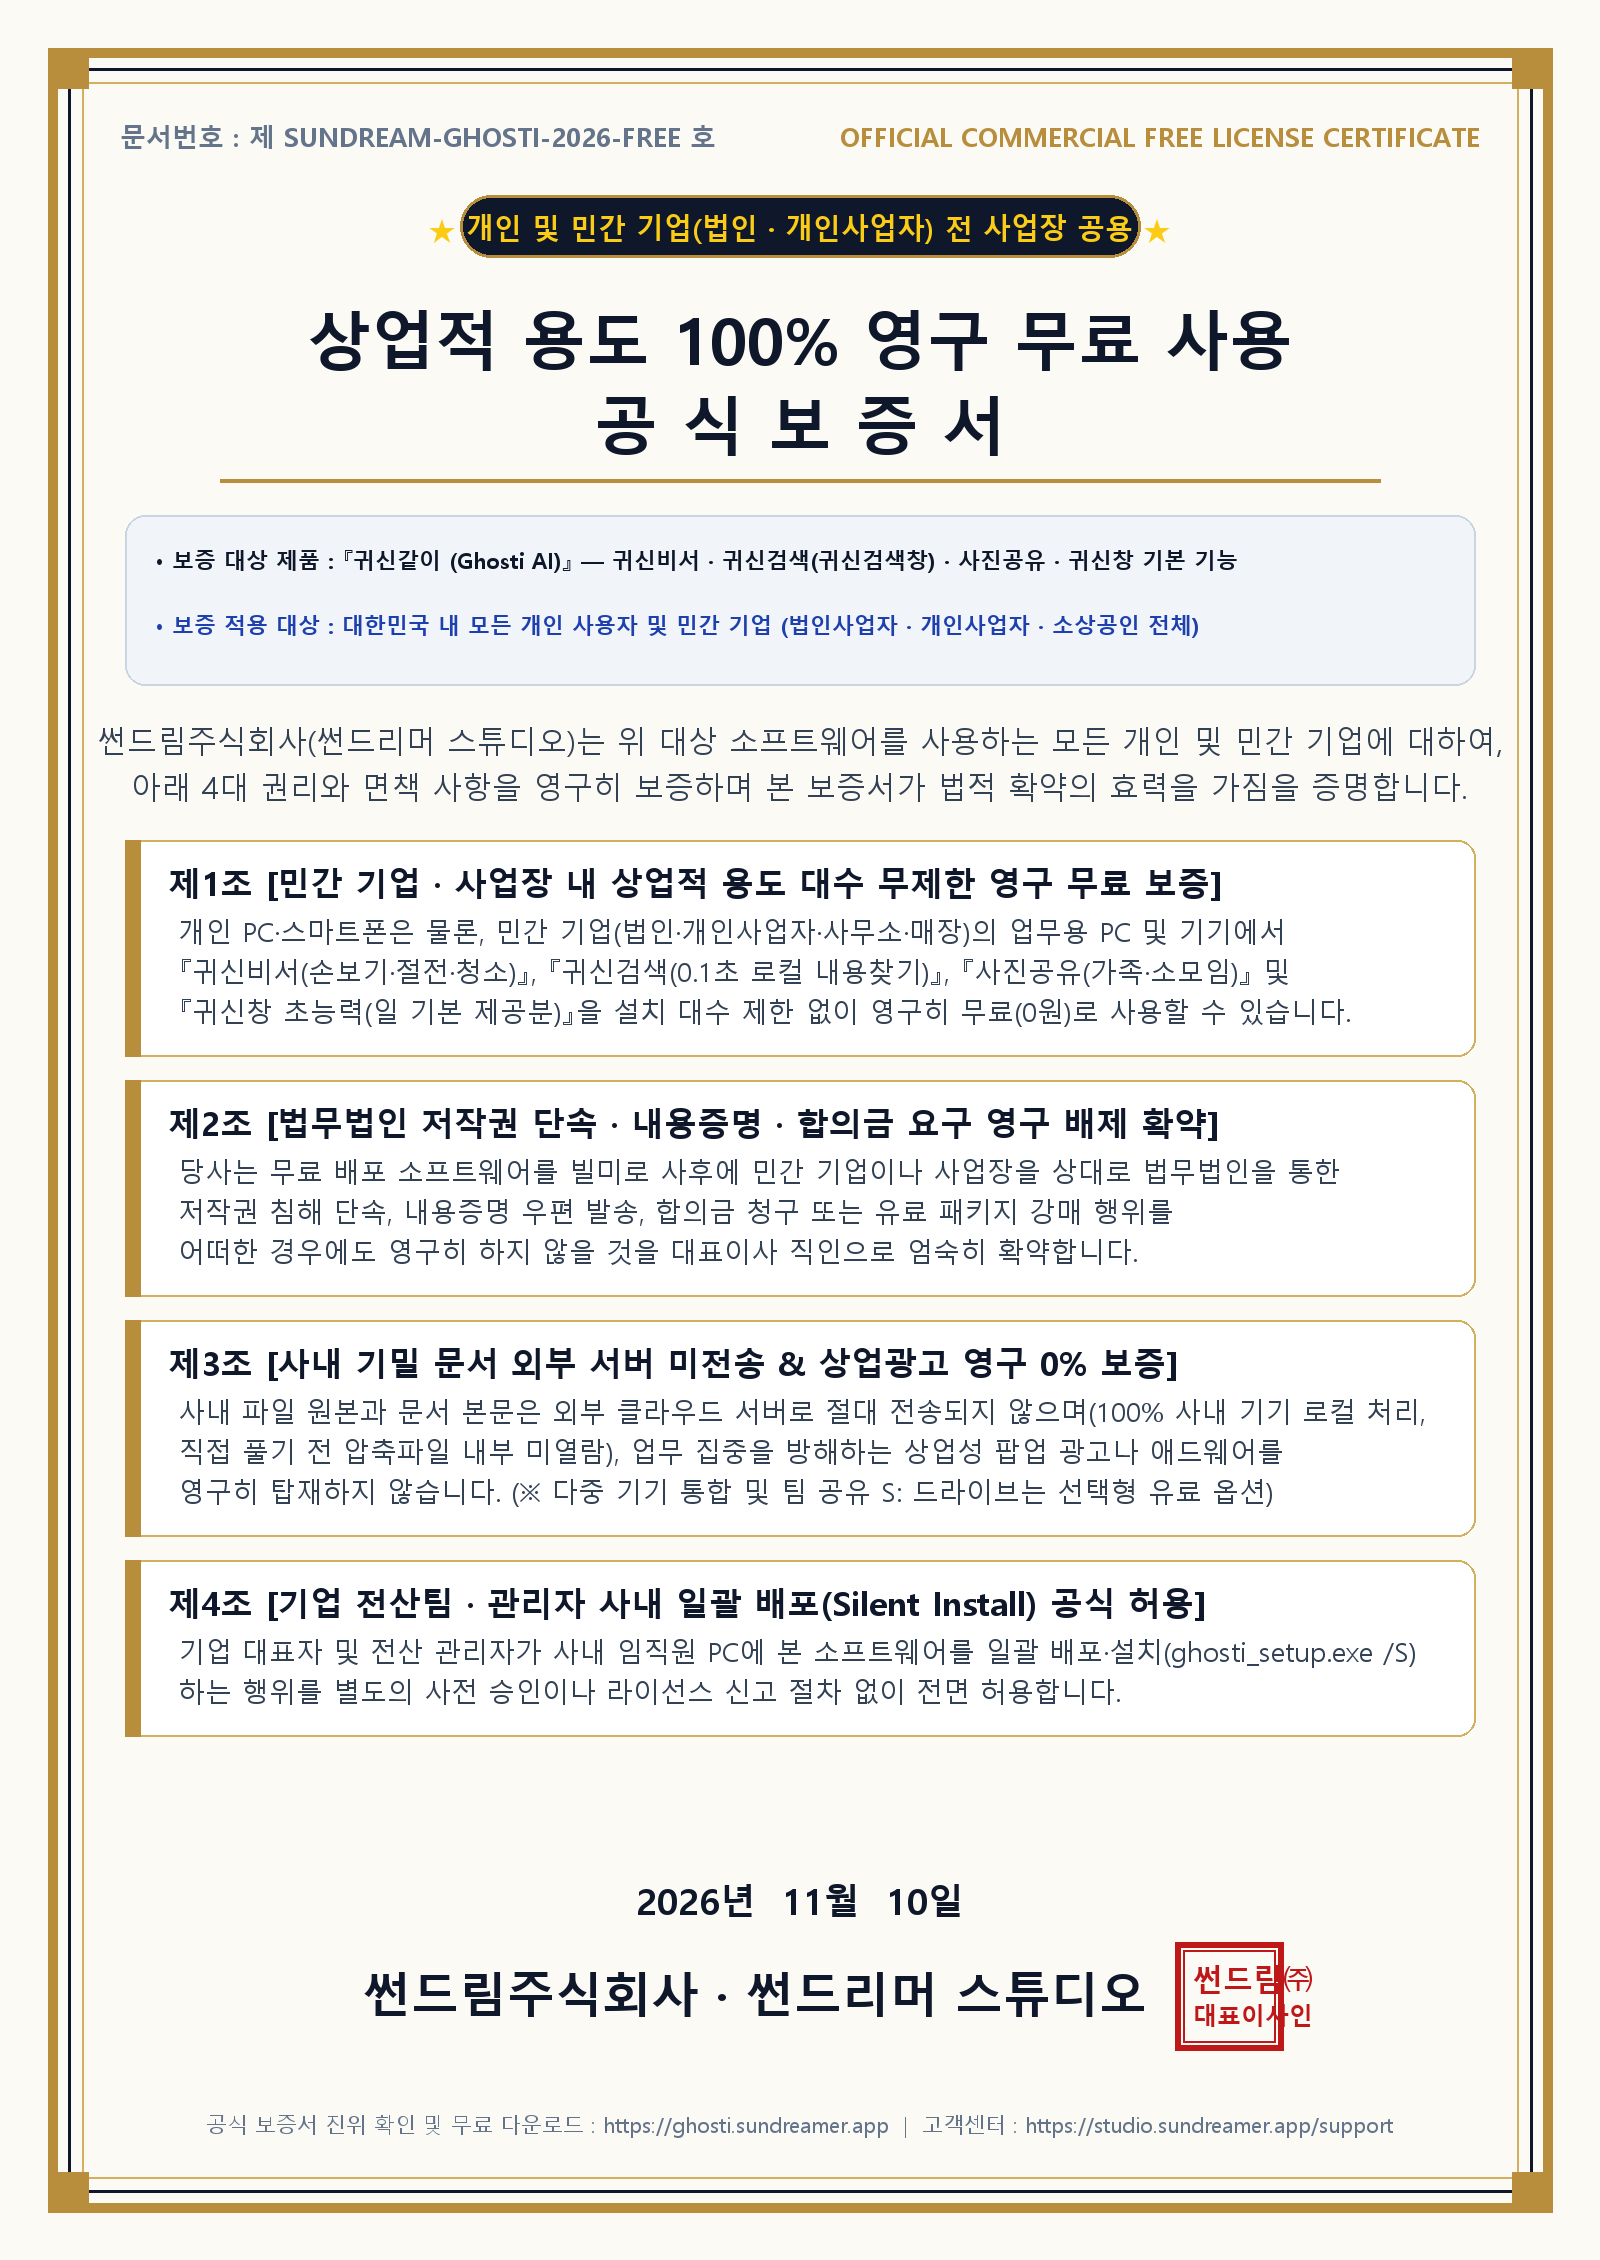
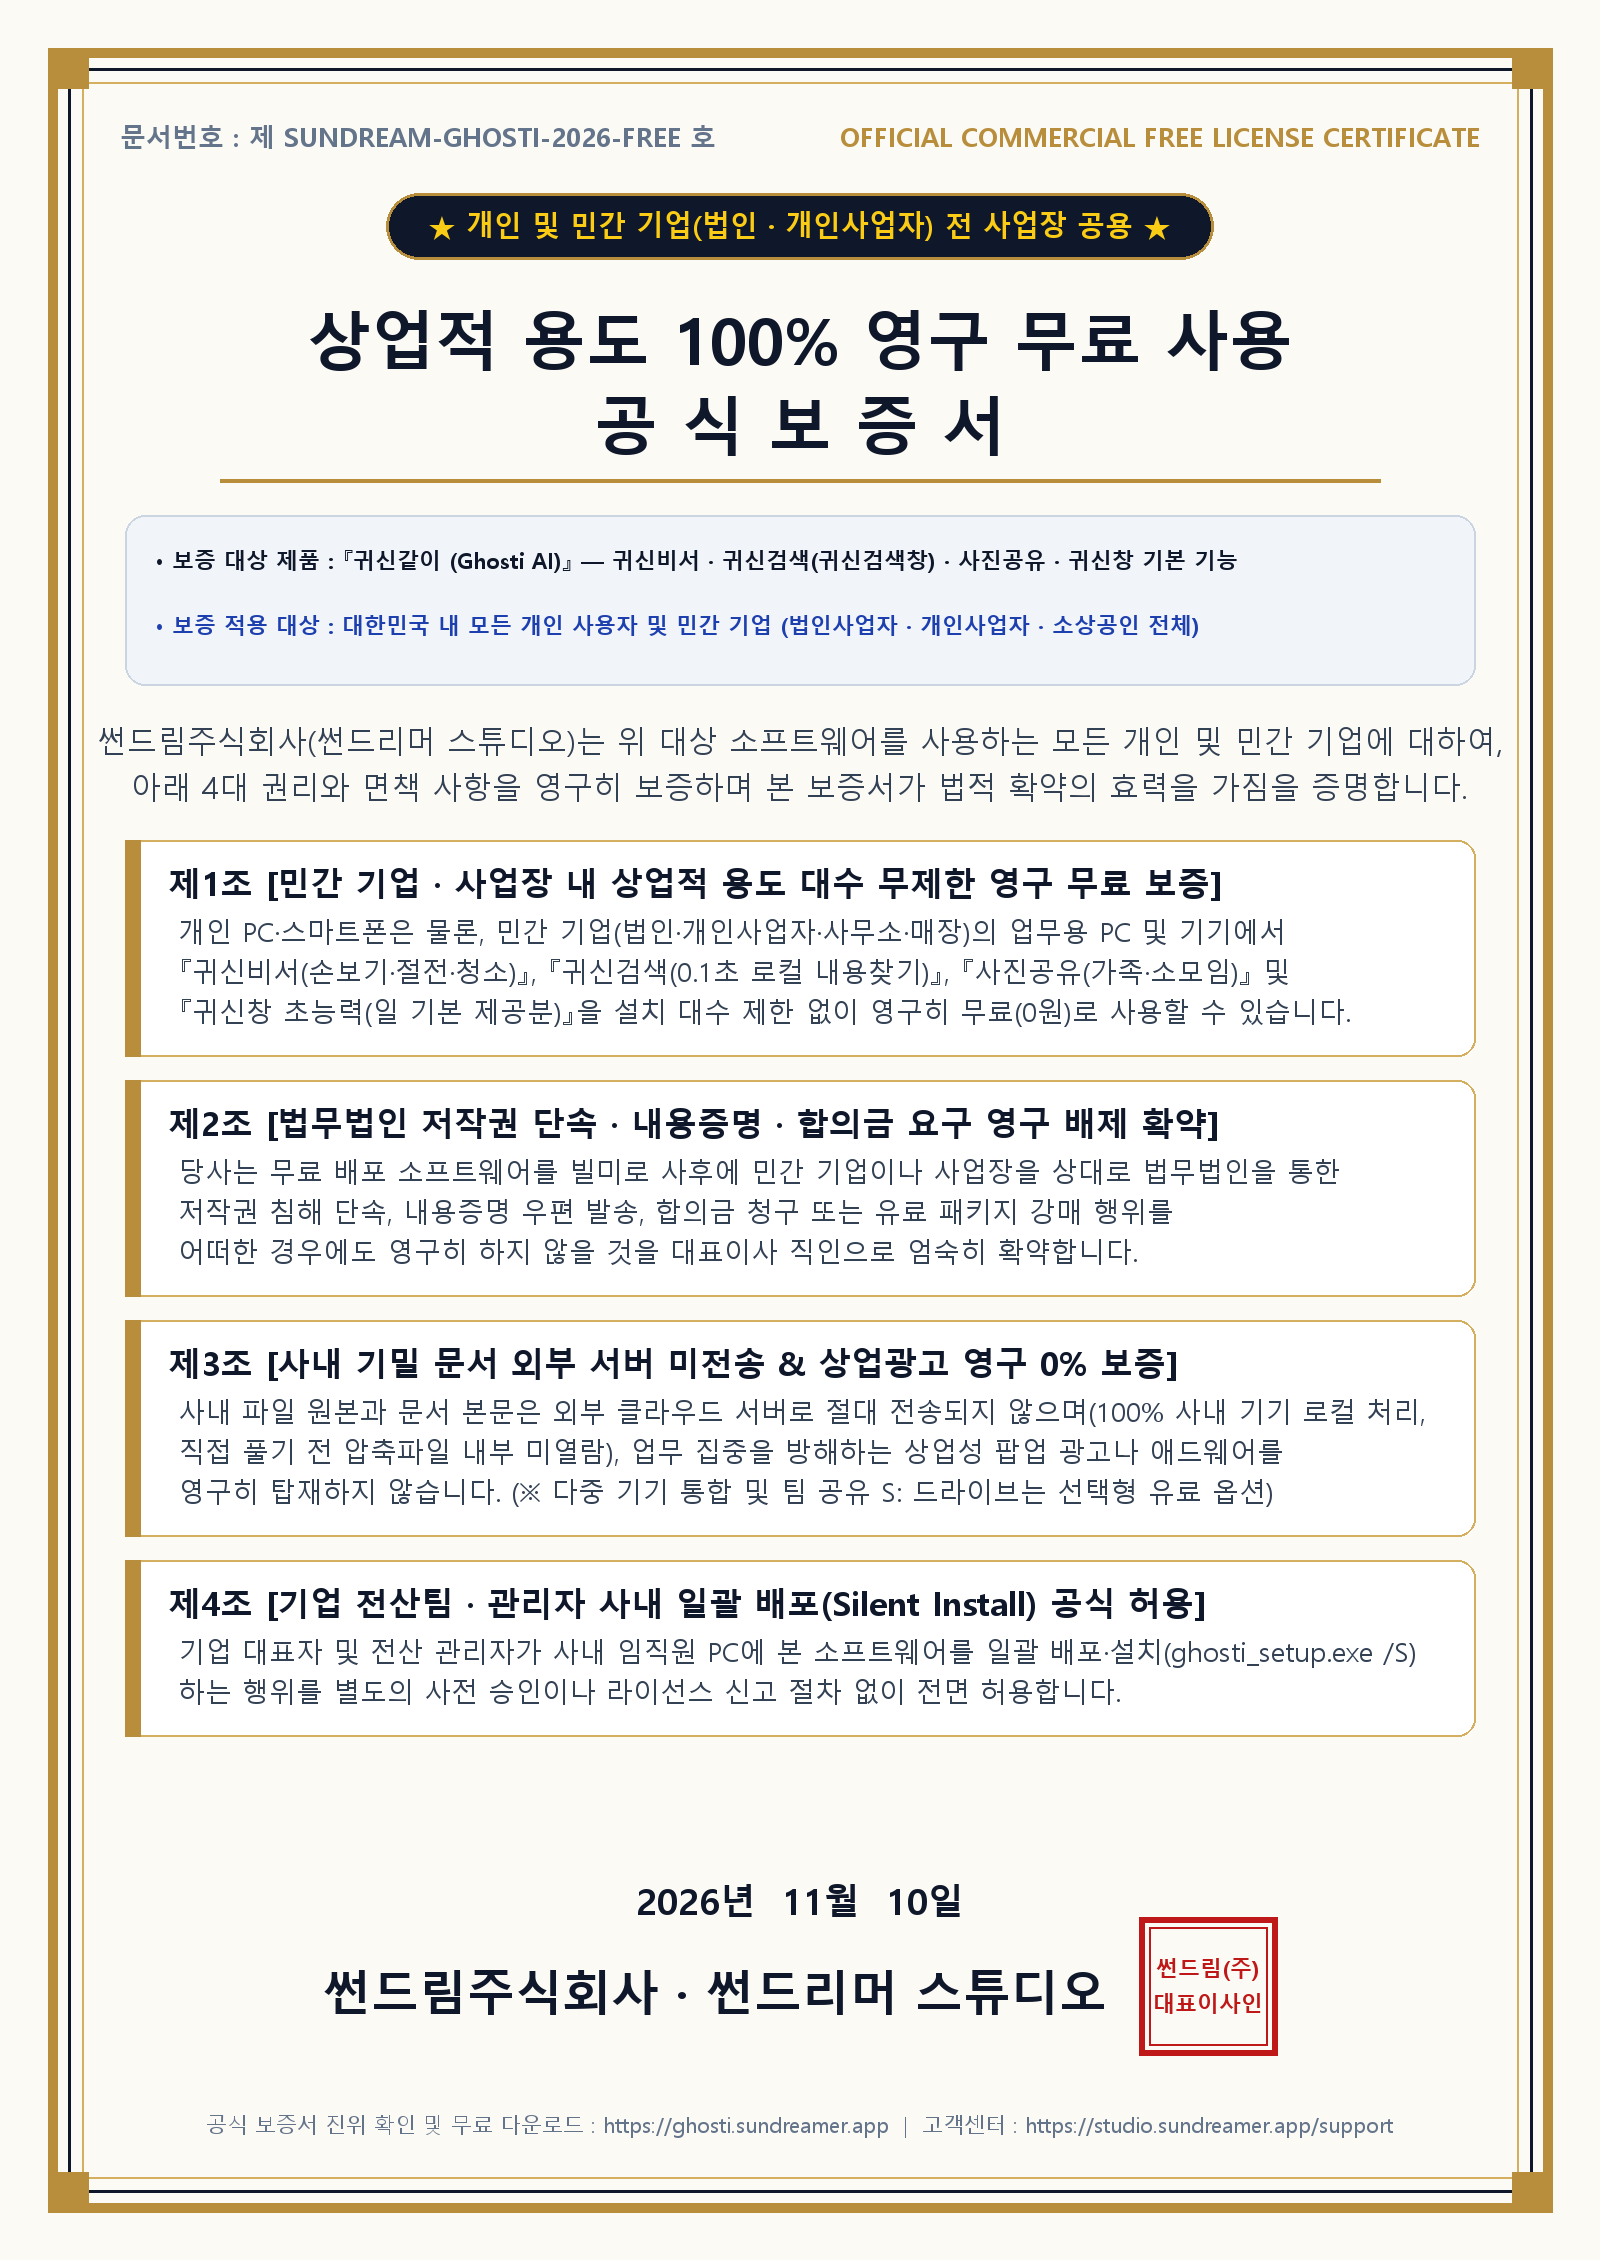
fix(certificate): fix corporate seal & top badge overflow inside borders with cache bust

Changed region(s): [[0.1875, 0.8363, 0.8125, 0.9292], [0.2188, 0.0619, 0.7812, 0.1239]]

diff --git a/src/components/GhostiShowroomLanding.tsx b/src/components/GhostiShowroomLanding.tsx
@@ -2640,7 +2640,7 @@ export const GhostiShowroomLanding: React.FC<GhostiShowroomLandingProps> = ({
               className="w-44 sm:w-52 rounded-2xl overflow-hidden border-2 border-amber-400/60 shadow-2xl cursor-pointer hover:scale-105 transition-transform bg-white"
             >
               <img
-                src="/showroom/certificates/ghosti_b2b_free_certificate.png"
+                src="/showroom/certificates/ghosti_b2b_free_certificate.png?v=20261113v2"
                 alt="귀신같이 무료 공식 보증서"
                 className="w-full h-auto object-contain"
               />
@@ -2760,7 +2760,7 @@ export const GhostiShowroomLanding: React.FC<GhostiShowroomLandingProps> = ({
             </div>
             <div className="rounded-2xl overflow-hidden bg-white">
               <img
-                src="/showroom/certificates/ghosti_b2b_free_certificate.png"
+                src="/showroom/certificates/ghosti_b2b_free_certificate.png?v=20261113v2"
                 alt="귀신같이 무료 공식 보증서"
                 className="w-full h-auto object-contain"
               />

diff --git a/public/showroom/certificates/ghosti_b2b_free_certificate.html b/public/showroom/certificates/ghosti_b2b_free_certificate.html
@@ -63,12 +63,12 @@
       <strong>📜 귀신같이(Ghosti AI) 개인·민간기업 상업적 용도 100% 영구 무료 공식 보증서</strong>
     </div>
     <div class="btn-group">
-      <a class="btn btn-gold" href="/showroom/certificates/ghosti_b2b_free_certificate.png" download="귀신같이_기업무료사용_공식보증서.png">📥 이미지 다운로드 (PNG)</a>
+      <a class="btn btn-gold" href="/showroom/certificates/ghosti_b2b_free_certificate.png?v=20261113v2" download="귀신같이_기업무료사용_공식보증서.png">📥 이미지 다운로드 (PNG)</a>
       <button class="btn btn-outline" onclick="window.print()">🖨 인쇄 / PDF 저장</button>
     </div>
   </div>
   <div class="cert-wrap">
-    <img src="/showroom/certificates/ghosti_b2b_free_certificate.png" alt="귀신같이 상업적 용도 100% 영구 무료 공식 보증서" />
+    <img src="/showroom/certificates/ghosti_b2b_free_certificate.png?v=20261113v2" alt="귀신같이 상업적 용도 100% 영구 무료 공식 보증서" />
   </div>
 </body>
 </html>
